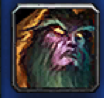
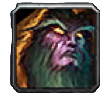
Removed background from images, finalized createCharacterScreen, started modifying homescreen

Changed region(s): [[0.0, 0.0, 1.0, 1.0]]

diff --git a/src/components/QuestCard.tsx b/src/components/QuestCard.tsx
@@ -1,6 +1,7 @@
-import { Image, StyleSheet, Text, View, TouchableOpacity } from "react-native";
+import { Image, StyleSheet, Text, TouchableOpacity } from "react-native";
 import theme from "../utils/theme";
 import { Quest } from "../interface/types";
+import FontAwesome5 from "@expo/vector-icons/FontAwesome5";
 
 type QuestCardProps = {
   quest: Quest;
@@ -14,8 +15,16 @@ const QuestCard = ({ quest, handleQuestPress }: QuestCardProps) => {
       onPress={() => handleQuestPress(quest)}
       style={styles.questPreview}
     >
-      <Image source={require("../assets/images/races/body2/dwarf.png")} />
+      <Image
+        style={styles.image}
+        source={require("../assets/images/races/body2/dwarf.png")}
+      />
       <Text style={{ color: "white" }}>{quest.title}</Text>
+      <FontAwesome5
+        name="exclamation"
+        color={theme.fonts.color.gold}
+        size={30}
+      />
     </TouchableOpacity>
   );
 };
@@ -26,9 +35,16 @@ const styles = StyleSheet.create({
   questPreview: {
     flexDirection: "row",
     width: "75%",
-    backgroundColor: theme.colors.secondary,
+    borderRadius: 8,
+    borderWidth: 2,
+    borderColor: theme.colors.secondary,
+    backgroundColor: theme.colors.opacity_75,
     padding: theme.spacing.small,
     margin: theme.spacing.medium,
     alignItems: "center",
+  },
+  image: {
+    height: 70,
+    width: 70,
   },
 });

diff --git a/src/components/AppBar.tsx b/src/components/AppBar.tsx
@@ -11,10 +11,7 @@ const AppBar = () => {
     useNavigation<NativeStackNavigationProp<RootStackParamList>>();
   return (
     <View style={styles.container}>
-      <View style={styles.logoContainer}>
-        <Text style={styles.text}>Dailyxp</Text>
-      </View>
-      <View>
+      <View style={styles.experienceContainer}>
         <ExperienceContainer />
       </View>
       <View style={styles.profileContainer}>
@@ -44,12 +41,12 @@ const styles = StyleSheet.create({
     fontWeight: "bold",
     color: theme.fonts.color.gold,
   },
-  logoContainer: {
-    flex: 1,
-    alignItems: "flex-start",
+  experienceContainer: {
+    flex: 5,
+    alignItems: "flex-end",
   },
   profileContainer: {
-    flex: 1,
+    flex: 3,
     alignItems: "flex-end",
   },
 });

diff --git a/src/components/RaceImage.tsx b/src/components/RaceImage.tsx
@@ -24,7 +24,7 @@ const RaceImage = ({
   return (
     <TouchableOpacity onPress={() => handleRaceClick(race)}>
       <View style={[styles.imageContainer, isSelected && styles.selected]}>
-        <Image source={source} style={styles.image} />
+        <Image source={source} style={styles.image} resizeMode="cover" />
       </View>
     </TouchableOpacity>
   );

diff --git a/src/screens/CreateCharacterScreen.tsx b/src/screens/CreateCharacterScreen.tsx
@@ -186,9 +186,14 @@ const styles = StyleSheet.create({
   },
   input: {
     height: 40,
+    width: "40%",
     margin: 12,
     borderWidth: 1,
+    borderRadius: 8,
+    backgroundColor: theme.colors.opacity_50,
+    borderColor: theme.colors.secondary,
     padding: 10,
+    color: "white",
   },
 });
 

diff --git a/src/utils/theme.ts b/src/utils/theme.ts
@@ -5,6 +5,7 @@ const theme = {
     purple: "#5C0C5D",
     buttonRed: "#600700",
     opacity_50: "rgba(0,0,0,0.5)",
+    opacity_75: "rgba(0,0,0,0.75)",
   },
   fonts: {
     regular: "System",
